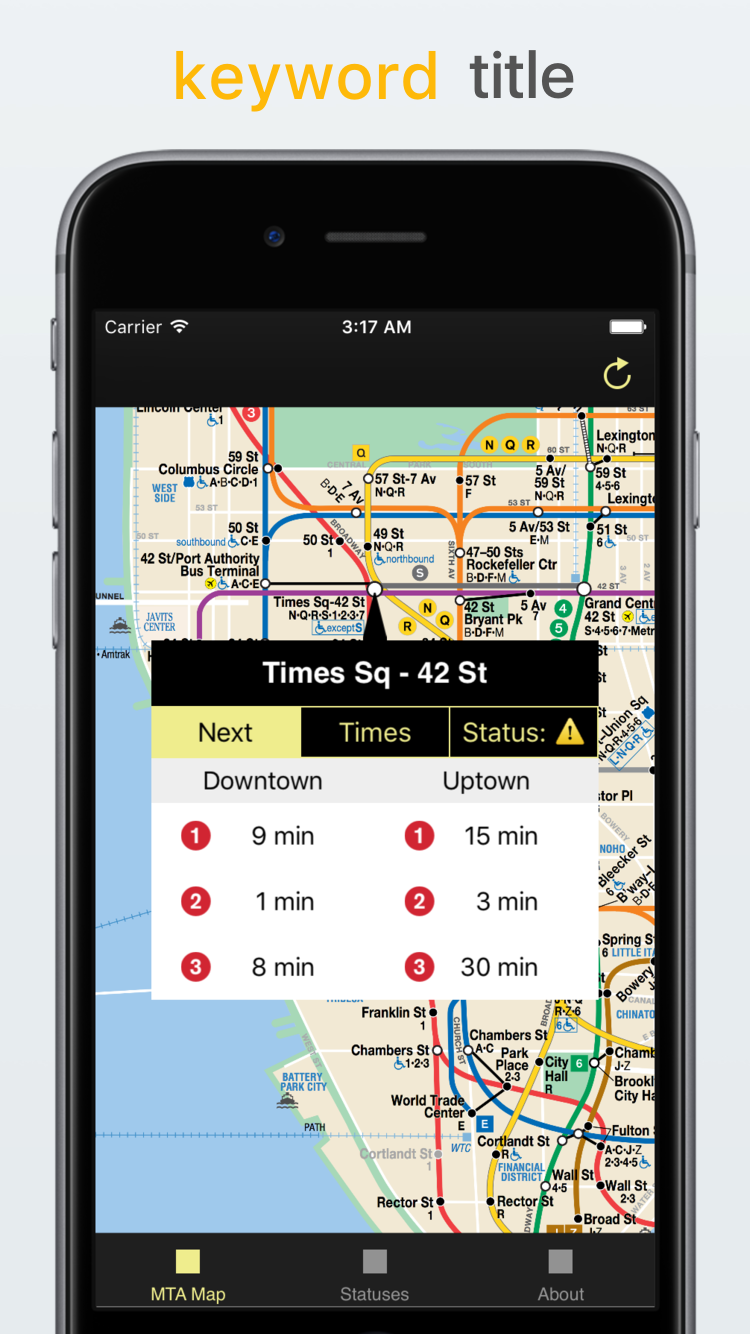
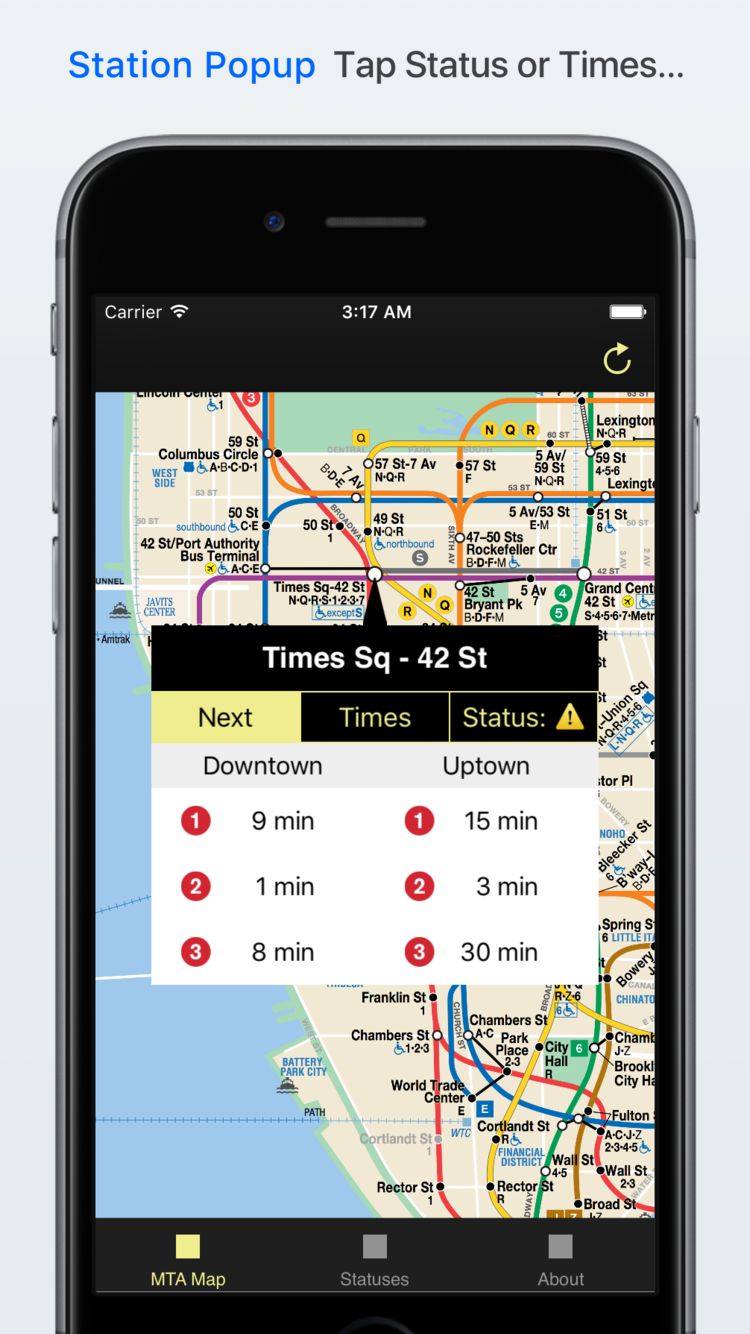
new framed iphone images

diff --git a/underway/support.html b/underway/support.html
@@ -57,12 +57,3 @@
     <script src="https://maxcdn.bootstrapcdn.com/bootstrap/3.3.6/js/bootstrap.min.js" integrity="sha384-0mSbJDEHialfmuBBQP6A4Qrprq5OVfW37PRR3j5ELqxss1yVqOtnepnHVP9aJ7xS" crossorigin="anonymous"></script>
   </body>
 </html>
-
-
-
-<!-- Latest compiled and minified CSS -->
-
-
-<!-- Optional theme -->
-
-<!-- Latest compiled and minified JavaScript -->
